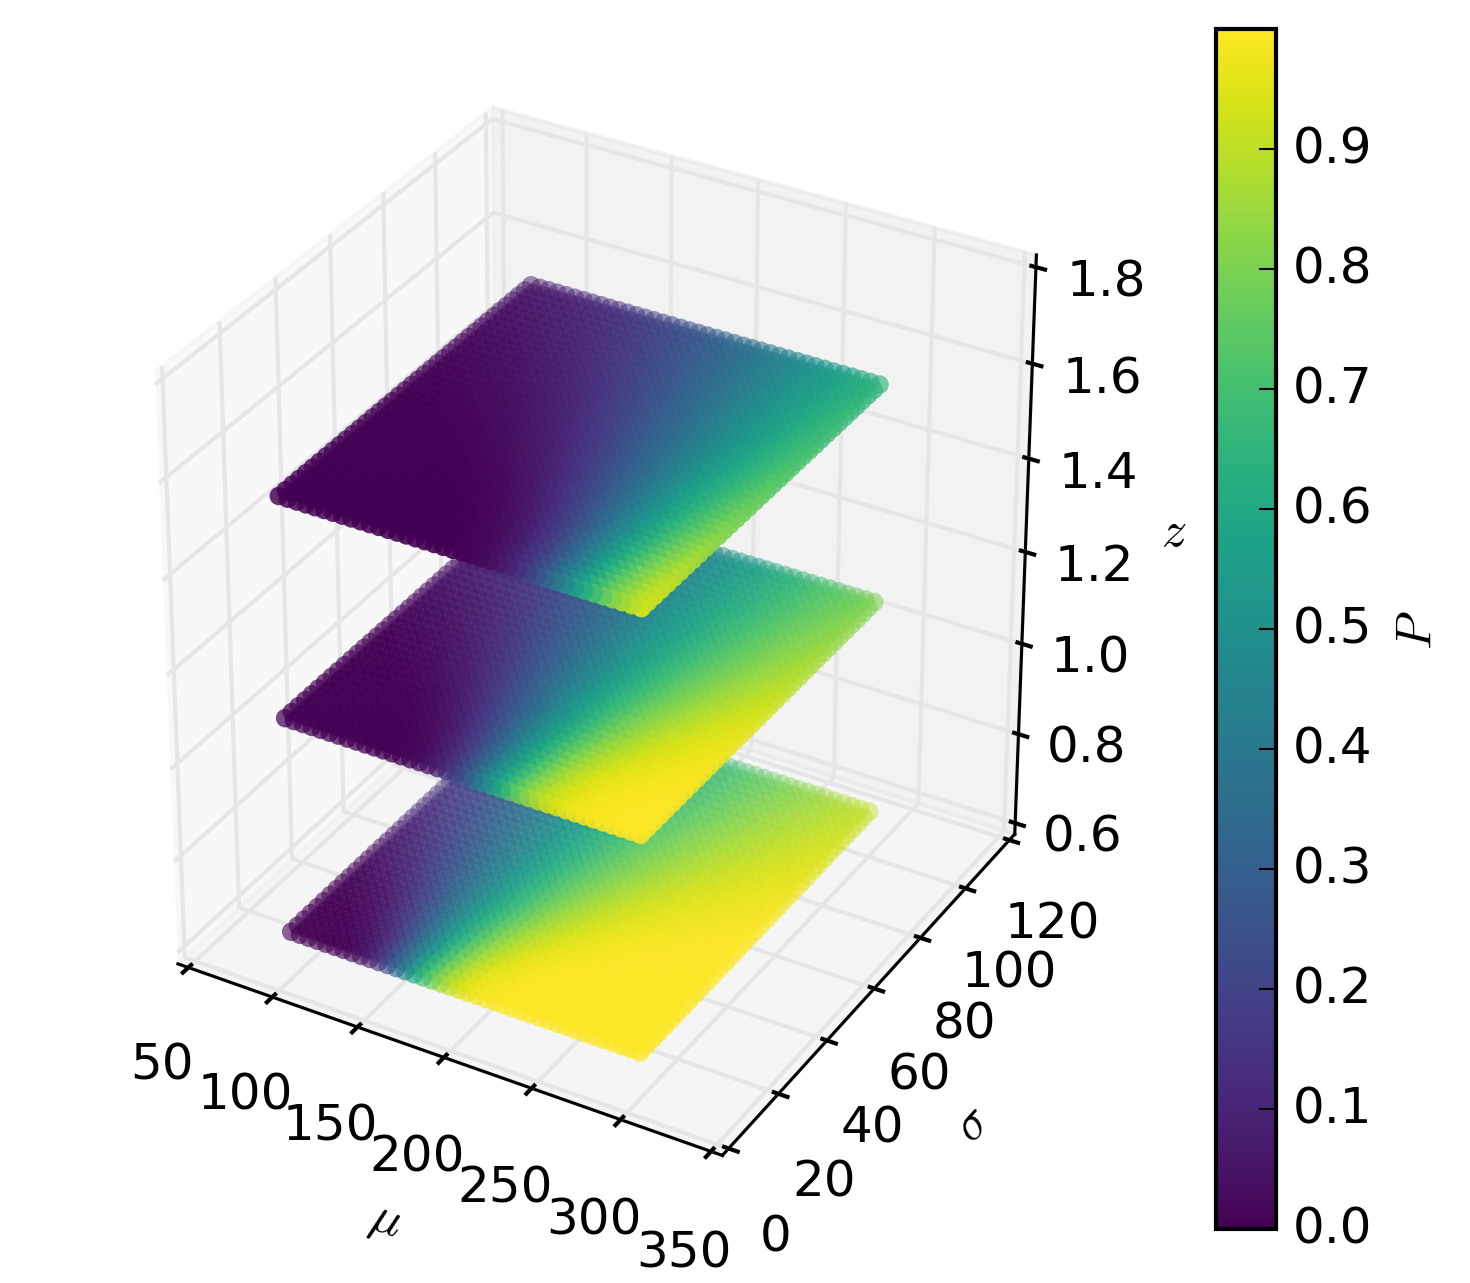
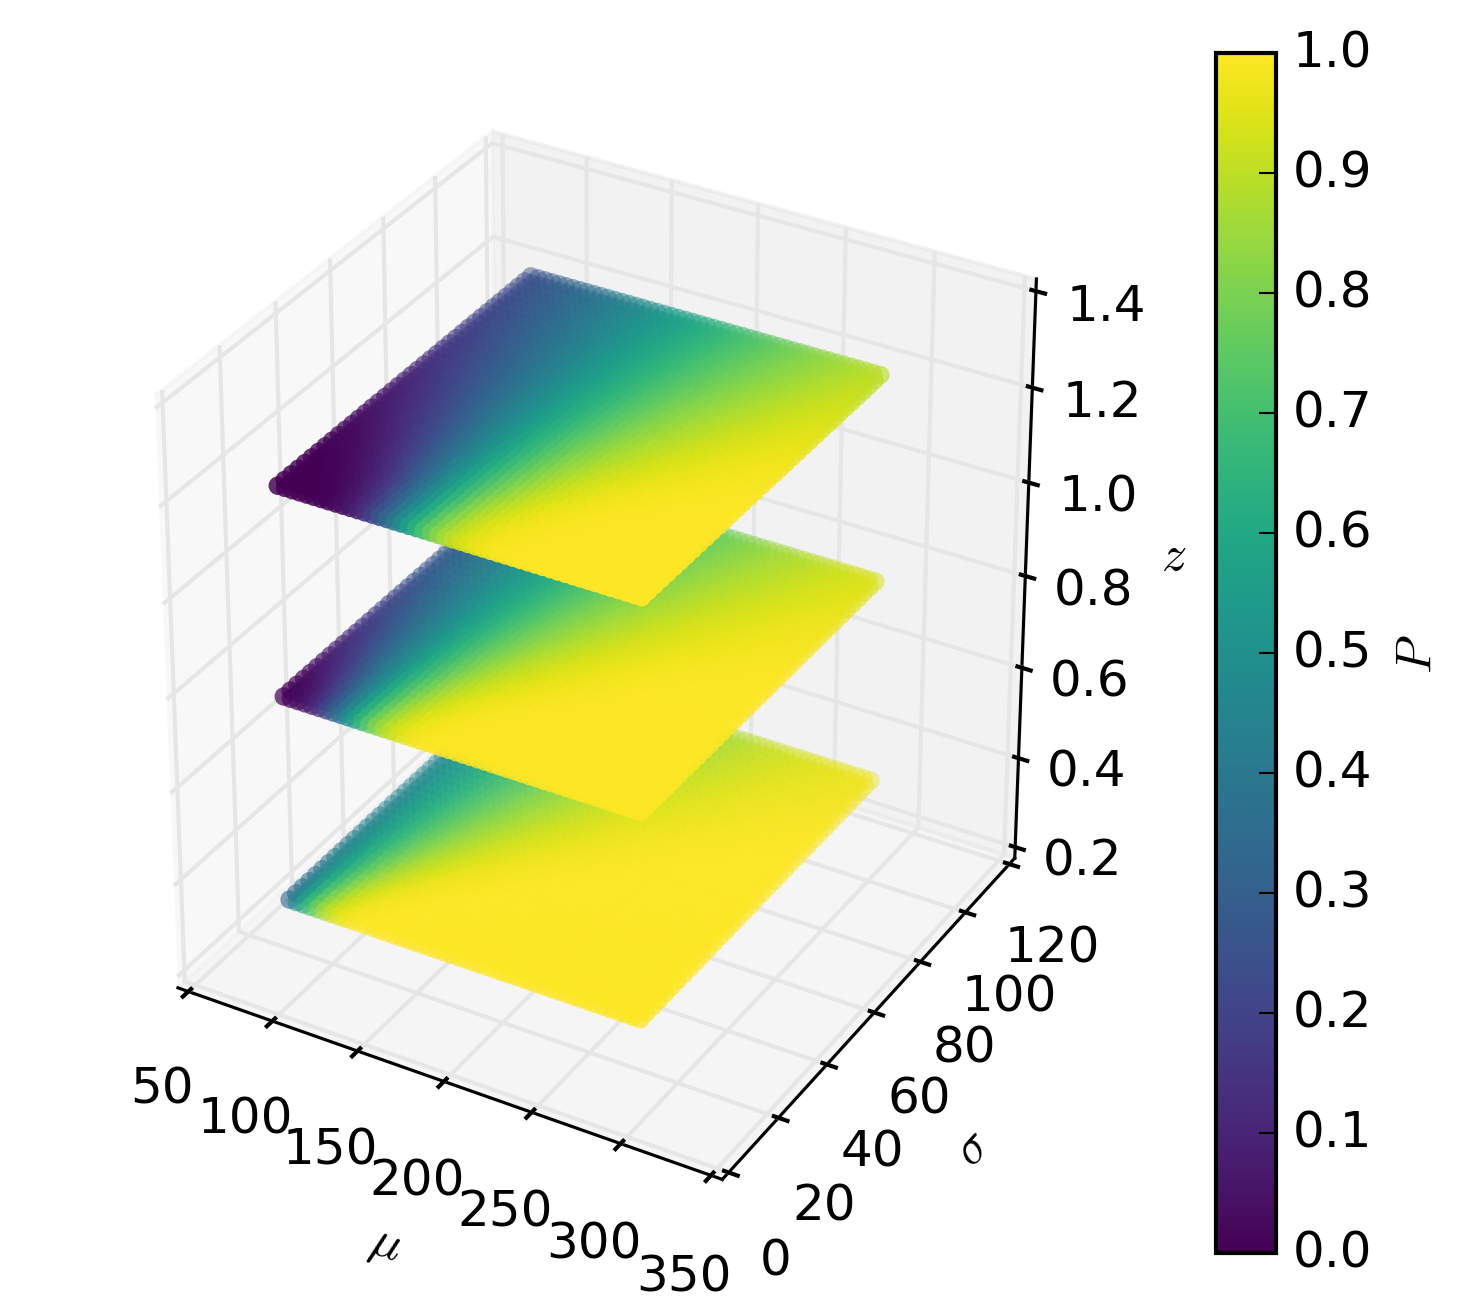
Fixing issue in efficiency

diff --git a/dessn/proofs/efficiency_4/__init__.py b/dessn/proofs/efficiency_4/__init__.py
@@ -23,17 +23,17 @@ Finally, the observed flux has Poisson noise, giving
     f_o \sim \mathcal{N}(f, \sqrt{f})
 
 When we observe, we approximate the error :math:`\sqrt{f}` as :math:`\sqrt{f_o}`, and
-discard points which have less a signal to noise less than 10, which translates
-into a selection cut at :math:`f_o > 100`.
+discard points which have less a signal to noise less than :math:`\alpha`, which translates
+into a selection cut at :math:`f_o > \alpha^2`.
 
 Following previous examples, we assume flat priors, denote our latent (true) flux as
 :math:`f`, arbitrary input flux as :math:`F`, and write out the likelihood as
 
 .. math::
-    \mathcal{L} = P(F = f_o, z_o|F > 100, \mu, \sigma)
+    \mathcal{L} = P(F = f_o, z_o|F > \alpha^2, \mu, \sigma)
 
-    \mathcal{L} = \frac{P(F = f_o, z_o, F>100 | \mu, \sigma)}
-    {P(F>100|\mu,\sigma)}
+    \mathcal{L} = \frac{P(F = f_o, z_o, F>\alpha^2 | \mu, \sigma)}
+    {P(F>\alpha^2|\mu,\sigma)}
 
 Now we enforce that the denominator is the normalisation constant over all possible
 experimental outcomes (using a subscript R to denote realised vales). Note that
@@ -41,30 +41,30 @@ as the redshift is assumed to be perfectly determined, there is no integral
 over redshift, the observed value represnts all possible experimental outcomes.
 
 .. math::
-    \mathcal{L} = \frac{P(F = f_o, z_o, F>100 | \mu, \sigma)}
-    {\int df_R \ P(F>100, F=f_R, z_o|\mu,\sigma)}
+    \mathcal{L} = \frac{P(F = f_o, z_o, F>\alpha^2 | \mu, \sigma)}
+    {\int df_R \ P(F>\alpha^2, F=f_R, z_o|\mu,\sigma)}
 
 Continuing with the algebra, we note that the luminosity is a function of flux
 and redshift.
 
 .. math::
-    \mathcal{L} = \frac{P(f_o, z_o, f_o>100 | \mu, \sigma)}
-    {\int df_R \ P(f_R>100, f_R, z_o|\mu,\sigma)}
+    \mathcal{L} = \frac{P(f_o, z_o, f_o>\alpha^2 | \mu, \sigma)}
+    {\int df_R \ P(f_R>\alpha^2, f_R, z_o|\mu,\sigma)}
 
-    \mathcal{L} = \frac{P(f_o>100 |f_o, z_o, \mu, \sigma) P(f_o, z_o | \mu, \sigma)}
-    {\int df_R\ P(f>100|f, z_o,\mu,\sigma) P(f, z_o | \mu, \sigma)}
+    \mathcal{L} = \frac{P(f_o>\alpha^2 |f_o, z_o, \mu, \sigma) P(f_o, z_o | \mu, \sigma)}
+    {\int df_R\ P(f>\alpha^2|f, z_o,\mu,\sigma) P(f, z_o | \mu, \sigma)}
 
-Noting if we observed :math:`f_o`, is must have passed out cuts and thus be :math:`f_o > 100`.
+Noting if we observed :math:`f_o`, is must have passed out cuts and thus be :math:`f_o > \alpha^2`.
 
 .. math::
     \mathcal{L} = \frac{P(f_o, z_o | \mu, \sigma)}
-    {\int df_R \ P(f_R>100|f_R) P(f_R, z_o| \mu, \sigma)}
+    {\int df_R \ P(f_R>\alpha^2|f_R) P(f_R, z_o| \mu, \sigma)}
 
 Adding in the latent parameters to represent the actual flux:
 
 .. math::
     \mathcal{L} = \frac{\int df \ P(f_o, z_o, f| \mu, \sigma)}
-    {\int df_R \ P(f_R>100|f_R) \int df \ P(f_R, z_o, f| \mu, \sigma)}
+    {\int df_R \ P(f_R>\alpha^2|f_R) \int df \ P(f_R, z_o, f| \mu, \sigma)}
 
 Writing in the bounds now for our integrals (instead of the two step process of writing
 the Heaviside step function and then using that to modify the integral limits), and remembering
@@ -72,43 +72,43 @@ that the observed flux is drawn from a normal distribution centered on the actua
 
 .. math::
     \mathcal{L} = \frac{\int_0^\infty df \ P(f_o, z_o, f| \mu, \sigma)}
-    {\int_0^\infty df_R\ P(f_R>100|f_R) \int_0^\infty df \ P(f_R, z_o, f| \mu, \sigma)}
+    {\int_0^\infty df_R\ P(f_R>\alpha^2|f_R) \int_0^\infty df \ P(f_R, z_o, f| \mu, \sigma)}
 
     \mathcal{L} = \frac{\int_0^\infty df \ P(f_o, |z_o, f, \mu, \sigma) P(z_o, f| \mu, \sigma)}
-    {\int_0^\infty df_R\ P(f_R>100|f_R) \int_0^\infty df \ P(f_R|z_R, f, \mu, \sigma) P(z_o, f| \mu, \sigma)}
+    {\int_0^\infty df_R\ P(f_R>\alpha^2|f_R) \int_0^\infty df \ P(f_R|z_R, f, \mu, \sigma) P(z_o, f| \mu, \sigma)}
 
     \mathcal{L} = \frac{\int_0^\infty df \ P(f_o, |f) P(z_o, f| \mu, \sigma)}
-    {\int_0^\infty df_ \ P(f_R>100|f_R) \int_0^\infty df \ P(f_R|f) P(z_o, f| \mu, \sigma)}
+    {\int_0^\infty df_ \ P(f_R>\alpha^2|f_R) \int_0^\infty df \ P(f_R|f) P(z_o, f| \mu, \sigma)}
 
     \mathcal{L} = \frac{\int_0^\infty df \ \mathcal{N}(f_o; f, \sqrt{f}) P(L_o| \mu, \sigma)}
-    {\int_{100}^\infty df_R \int_0^\infty df \ \mathcal{N}(f_R; f, \sqrt{f}) P(L| \mu, \sigma)}
+    {\int_{\alpha^2}^\infty df_R \int_0^\infty df \ \mathcal{N}(f_R; f, \sqrt{f}) P(L| \mu, \sigma)}
 
     \mathcal{L} = \frac{\int_0^\infty df \ \mathcal{N}(f_o; f, \sqrt{f}) \mathcal{N}(L; \mu, \sigma)}
-    {\int_{100}^\infty df_R  \int_0^\infty df \ \mathcal{N}(f_R; f, \sqrt{f}) \mathcal{N}(L_R; \mu, \sigma)}
+    {\int_{\alpha^2}^\infty df_R  \int_0^\infty df \ \mathcal{N}(f_R; f, \sqrt{f}) \mathcal{N}(L_R; \mu, \sigma)}
 
     \mathcal{L} = \frac{\int_0^\infty df \ \mathcal{N}(f_o; f, \sqrt{f}) \mathcal{N}(L; \mu, \sigma)}
-    {\int_0^\infty df \ \mathcal{N}(L_R; \mu, \sigma) \int_{100}^\infty df_R \ \mathcal{N}(f_R; f, \sqrt{f})}
+    {\int_0^\infty df \ \mathcal{N}(L_R; \mu, \sigma) \int_{\alpha^2}^\infty df_R \ \mathcal{N}(f_R; f, \sqrt{f})}
 
 Following the previous example, we show that
 
 .. math::
-    \int_{100}^\infty df_R \ \mathcal{N}(f_R; f, \sqrt{f}) =
-    \int_{100}^\infty df_R \frac{1}{\sqrt{2\pi f}} \exp\left[-\frac{(f_R - f)^2}{2 f}\right]
+    \int_{\alpha^2}^\infty df_R \ \mathcal{N}(f_R; f, \sqrt{f}) =
+    \int_{\alpha^2}^\infty df_R \frac{1}{\sqrt{2\pi f}} \exp\left[-\frac{(f_R - f)^2}{2 f}\right]
 
 We translate variables such that :math:`x = f_R - f`, which implies :math:`dx = df_R`, giving:
 
 .. math::
-     \int_{100}^\infty df_R \ \mathcal{N}(f_R; f, \sqrt{f}) =
-    \int_{100-f}^\infty df_R \frac{1}{\sqrt{2\pi f}} \exp\left[-\frac{(x)^2}{2 f}\right]
+     \int_{\alpha^2}^\infty df_R \ \mathcal{N}(f_R; f, \sqrt{f}) =
+    \int_{\alpha^2-f}^\infty df_R \frac{1}{\sqrt{2\pi f}} \exp\left[-\frac{(x)^2}{2 f}\right]
 
 Which evaluates to
 
 .. math::
-    \int_{100}^\infty df_R \ \mathcal{N}(f_R; f, \sqrt{f}) = g(f) = \begin{cases}
-    \frac{1}{2} - \frac{1}{2}{\rm erf} \left[ \frac{100 - f}{\sqrt{2f}} \right] &
-    \text{ if } 100 - f > 0 \\
-    \frac{1}{2} + \frac{1}{2}{\rm erf} \left[ \frac{f - 100}{\sqrt{2f}} \right] &
-    \text{ if } 100 - f < 0 \\
+    \int_{\alpha^2}^\infty df_R \ \mathcal{N}(f_R; f, \sqrt{f}) = g(f) = \begin{cases}
+    \frac{1}{2} - \frac{1}{2}{\rm erf} \left[ \frac{\alpha^2 - f}{\sqrt{2f}} \right] &
+    \text{ if } \alpha^2 - f > 0 \\
+    \frac{1}{2} + \frac{1}{2}{\rm erf} \left[ \frac{f - \alpha^2}{\sqrt{2f}} \right] &
+    \text{ if } \alpha^2 - f < 0 \\
     \end{cases}
 
 Placing this expression back into the likelihood gives us
@@ -140,7 +140,8 @@ The model PGM is constructed as follows:
     :width:     80%
     :align:     center
 
-I plot three realisations of the data to confirm that the effect is not by change,
+I plot three realisations of the data uaing a threshold of :math:`\alpha^2 = 75`,
+to confirm that the effect is not by chance,
 and show the parameters recovered when correcting for the bias (blue) and the
 parameters recovered when you do not correct for the bias (red).
 

diff --git a/dessn/proofs/efficiency_4/efficiency_model_4.py b/dessn/proofs/efficiency_4/efficiency_model_4.py
@@ -80,8 +80,7 @@ class ActualSigma(ParameterUnderlying):
     def get_log_prior(self, data):
         if data["sigma"] < 0:
             return -np.inf
-        s = data["sigma"]
-        return -2 * np.log(s)
+        return 1
 
 
 class ToLatentFlux(Edge):
@@ -139,10 +138,10 @@ class BiasCorrection(Edge):
         self.interp = self.get_data()
 
     def get_data(self):
-        self.mus = np.linspace(100, 300, 40)
+        self.mus = np.linspace(100, 300, 50)
         self.sigmas = np.linspace(5, 100, 40)
-        self.zs = np.linspace(0.4, 1.6, 40)
-        ms, ss, zs = np.meshgrid(self.mus, self.sigmas, self.zs)
+        self.zs = np.linspace(0.4, 1.6, 70)
+        ms, ss, zs = np.meshgrid(self.mus, self.sigmas, self.zs, indexing="ij")
         self.ms = ms
         self.ss = ss
         self.z = zs
@@ -153,21 +152,15 @@ class BiasCorrection(Edge):
             bound = fs - self.threshold
             ltz = (bound > 0) * 2.0 - 1.0
             erf_term = ltz * 0.5 * erf((np.abs(bound)) / (np.sqrt(2 * fs))) + 0.5
-            vs = []
-            for m, s, z in zip(ms.flatten(), ss.flatten(), zs.flatten()):
-                # m = 50
-                # s = 20
-                # z = 1.5
-
-                g = (fs * (1 + z) - m)
-                gaussian = (1 + z) * (1 / (np.sqrt(2 * np.pi) * s)) * np.exp(-g * g / (2 * s * s))
-                integral = simps(gaussian * erf_term, x=fs)
-                vs.append(integral)
-                # print(m, s, z, integral, erf_term)
-                # assert 1 == 2
-
-            vs = np.array(vs)
-            self.vs = vs.reshape((self.mus.size, self.sigmas.size, self.zs.size))
+            self.vs = np.zeros(ms.shape)
+            print(self.vs.shape, ms.shape, ss.shape, zs.shape)
+            for i, m in enumerate(self.mus):
+                for j, s in enumerate(self.sigmas):
+                    for k, z in enumerate(self.zs):
+                        g = (fs * (1 + z) - m)
+                        gaussian = (1 + z) * (1 / (np.sqrt(2 * np.pi) * s)) * np.exp(-g * g / (2 * s * s))
+                        integral = simps(gaussian * erf_term, x=fs)
+                        self.vs[i, j, k] = integral
             np.save(self.filename, self.vs)
         return RegularGridInterpolator((self.mus, self.sigmas, self.zs), self.vs,
                                        bounds_error=False, fill_value=0.0)
@@ -178,7 +171,8 @@ class BiasCorrection(Edge):
         redshift = data["z_o"]
 
         points = [[mu, sigma, z] for z in redshift]
-        ps = -np.log(self.interp(points))
+        p = self.interp(points)
+        ps = -np.log(p)
         ps[ps == np.inf] = -np.inf
         return ps
 
@@ -222,16 +216,16 @@ def get_data(seed=5, n=500):
     np.random.seed(seed=seed)
     mean = 200.0
     std = 40.0
-    z_start = 0.45
-    z_end = 0.5
-    threshold = 36
+    z_start = 0.5
+    z_end = 1.5
+    threshold = 75
 
     z_o = np.random.uniform(z_start, z_end, size=n)
     lum = np.random.normal(loc=mean, scale=std, size=n)
     flux = lum / (1 + z_o)
     f_o = flux + np.random.normal(scale=np.sqrt(flux), size=n)
     mask = f_o > threshold
-    print(mask.sum(), n, lum[mask].mean())
+    print(mask.sum(), n, lum.mean(), lum[mask].mean())
 
     return mean, std, threshold, lum, z_o, f_o, mask
 
@@ -241,11 +235,12 @@ def plot_weights(dir_name):
     mean, std, threshold, lall, zall, fall, mask = get_data(seed=0)
 
     E = BiasCorrection(threshold, dir_name + "/output")
-    n = -15
-    m = E.ms[::-1, ::-1, ::n].flatten()
-    s = E.ss[::-1, ::-1, ::n].flatten()
-    r = E.z[::-1, ::-1, ::n].flatten()
-    z = E.vs[::-1, ::-1, ::n].flatten()
+    n = 25
+    i = 1
+    m = E.ms[::i, ::i, ::n].flatten()
+    s = E.ss[::i, ::i, ::n].flatten()
+    r = E.z[::i, ::i, ::n].flatten()
+    z = E.vs[::i, ::i, ::n].flatten()
 
     fig = plt.figure(figsize=(6, 5))
     ax = fig.add_subplot(111, projection='3d')
@@ -268,47 +263,31 @@ if __name__ == "__main__":
 
     model_un = EfficiencyModelUncorrected(np.random.random(10), np.random.random(10))
     pgm_file = os.path.abspath(dir_name + "/output/pgm.png")
-    # fig = model_un.get_pgm(pgm_file)
+    fig = model_un.get_pgm(pgm_file)
     plot_weights(dir_name)
     c = ChainConsumer()
     v = Viewer([[100, 300], [0, 70]], parameters=[r"$\mu$", r"$\sigma$"], truth=[200, 40])
-    n = 1
-    w = 4
+    n = 2
+    w = 8
     colours = ["#4CAF50", "#D32F2F", "#1E88E5"] * n
 
     for i in range(n):
-        mean, std, threshold, lall, zall, fall, mask = get_data(seed=i)
+        mean, std, threshold, lall, zall, fall, mask = get_data(seed=i, n=500)
         theta = [mean, std]
-        #
-        # plt.hist(lall, alpha=0.5, bins=20)
-        # plt.hist(lall[mask], alpha=0.5, bins=20)
-        # plt.show()
-        #
-        # plt.hist(zall, alpha=0.5, bins=20)
-        # plt.hist(zall[mask], alpha=0.5, bins=20)
-        # plt.show()
-        #
-        # plt.hist(fall, alpha=0.5, bins=20)
-        # plt.hist(fall[mask], alpha=0.5, bins=20)
-        # plt.show()
-        # exit()
 
-        kwargs = {"num_steps": 3000, "num_burn": 1000, "save_interval": 60,
+        kwargs = {"num_steps": 8000, "num_burn": 4000, "save_interval": 60,
                   "plot_covariance": True, "unify_latent": True}  # , "callback": v.callback
         sampler = BatchMetroploisHastings(num_walkers=w, kwargs=kwargs, temp_dir=t % i, num_cores=4)
 
         model_good = EfficiencyModelUncorrected(fall, zall, name="Good%d" % i)
         model_good.fit(sampler, chain_consumer=c)
-        # print("Good ", model_good.get_log_posterior(theta_good), c.posteriors[-1][-1])
 
         model_un = EfficiencyModelUncorrected(fall[mask], zall[mask], name="Uncorrected%d" % i)
         model_un.fit(sampler, chain_consumer=c)
-        # print("Uncorrected ", model_un.get_log_posterior(theta_bias), c.posteriors[-1][-1])
 
         model_cor = EfficiencyModelCorrected(fall[mask], zall[mask], threshold,
                                              dir_name + "/output", name="Corrected%d" % i)
         model_cor.fit(sampler, chain_consumer=c)
-        # print("Corrected ", model_cor.get_log_posterior(theta_bias), c.posteriors[-1][-1])
 
     c.configure_bar(shade=True)
     c.configure_general(bins=1.0, colours=colours)
@@ -316,6 +295,6 @@ if __name__ == "__main__":
     c.plot(filename=plot_file, truth=theta, figsize=(5, 5), legend=False)
     for i in range(len(c.chains)):
         c.plot_walks(filename=walk_file % c.names[i], chain=i, truth=theta)
-        # c.divide_chain(i, w).configure_general(rainbow=True) \
-        #     .plot(figsize=(5, 5), filename=plot_file.replace(".png", "_%s.png" % c.names[i]),
-        #           truth=theta)
+        c.divide_chain(i, w).configure_general(rainbow=True) \
+            .plot(figsize=(5, 5), filename=plot_file.replace(".png", "_%s.png" % c.names[i]),
+                  truth=theta)

diff --git a/dessn/proofs/efficiency_1/__init__.py b/dessn/proofs/efficiency_1/__init__.py
@@ -133,7 +133,7 @@ The model PGM:
     :width:     60%
     :align:     center
 
-I plot three realisations of the data to confirm that the effect is not by change,
+I plot three realisations of the data to confirm that the effect is not by chance,
 and show the parameters recovered when correcting for the bias (blue) and the
 parameters recovered when you do not correct for the bias (red).
 

diff --git a/dessn/proofs/efficiency_2/__init__.py b/dessn/proofs/efficiency_2/__init__.py
@@ -86,7 +86,7 @@ Which gives a final likelihood of
     {g(\alpha, \mu,\sigma)}
 We can not implement this correction, and then implement it, and hopefully see that the
 recovered underlying distribution becomes unbiased. I plot three realisations of the data
-to confirm that the effect is not by change.
+to confirm that the effect is not by chance.
 
 The model PGM:
 
